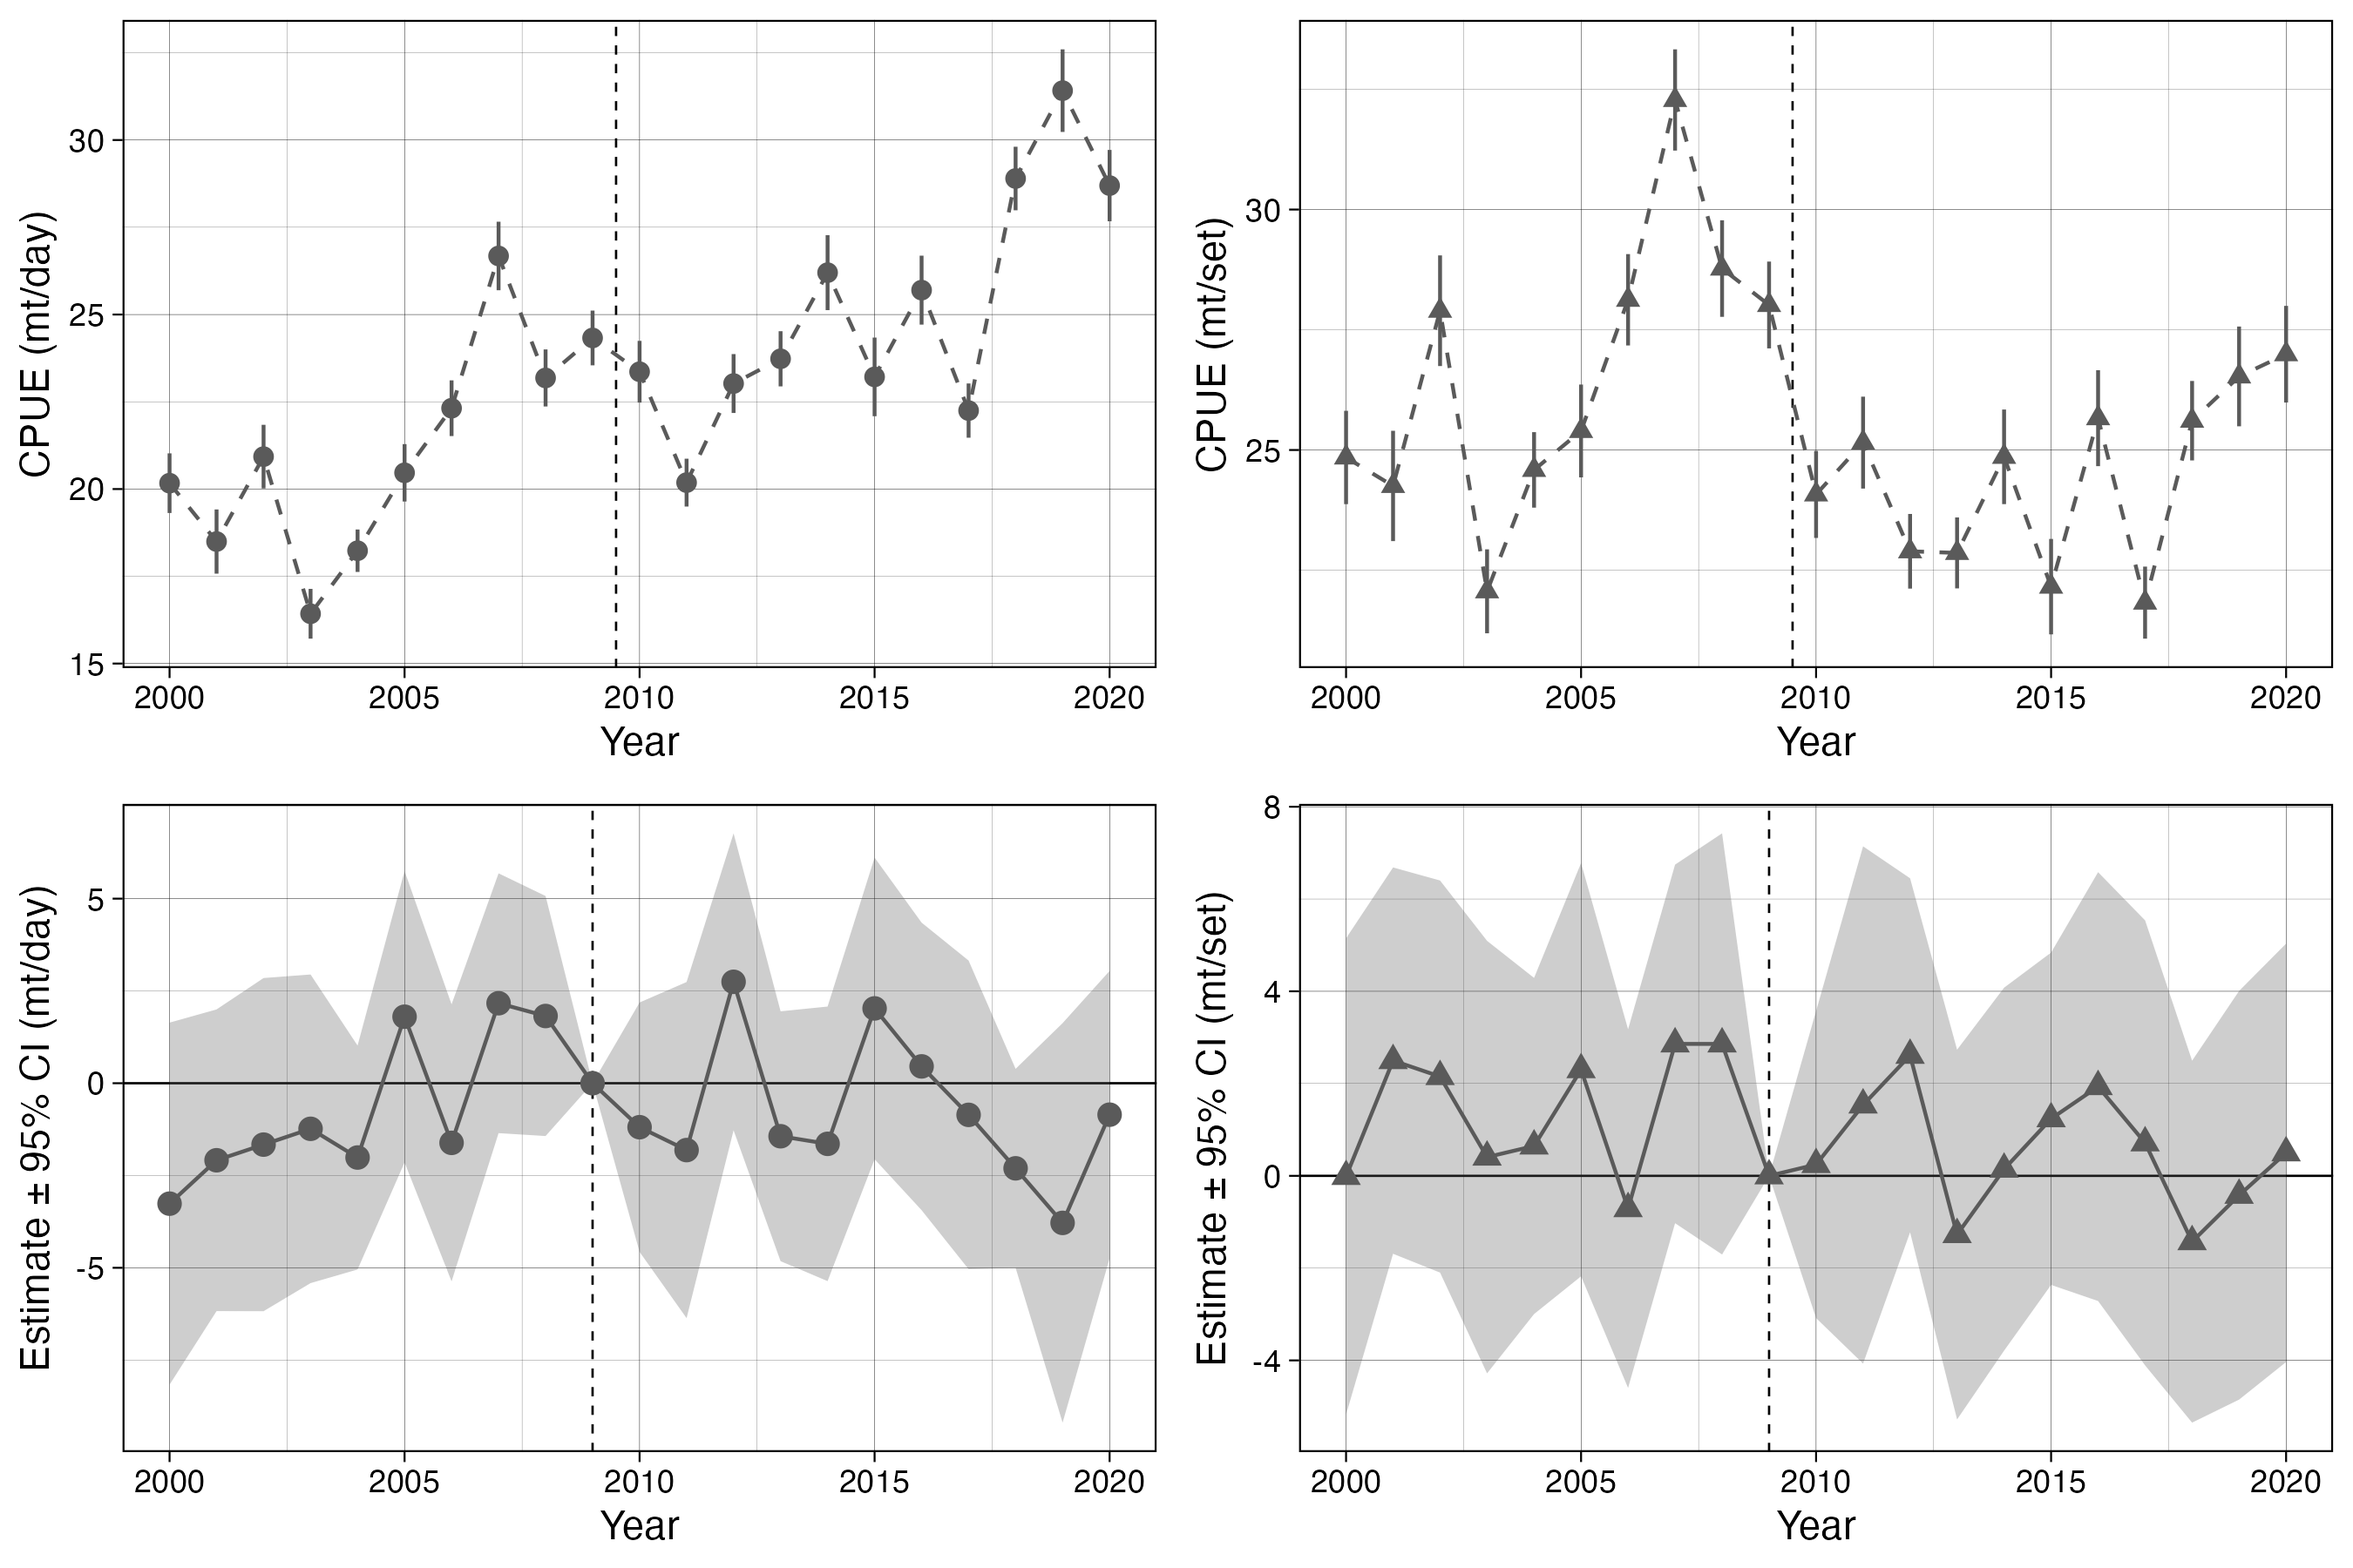
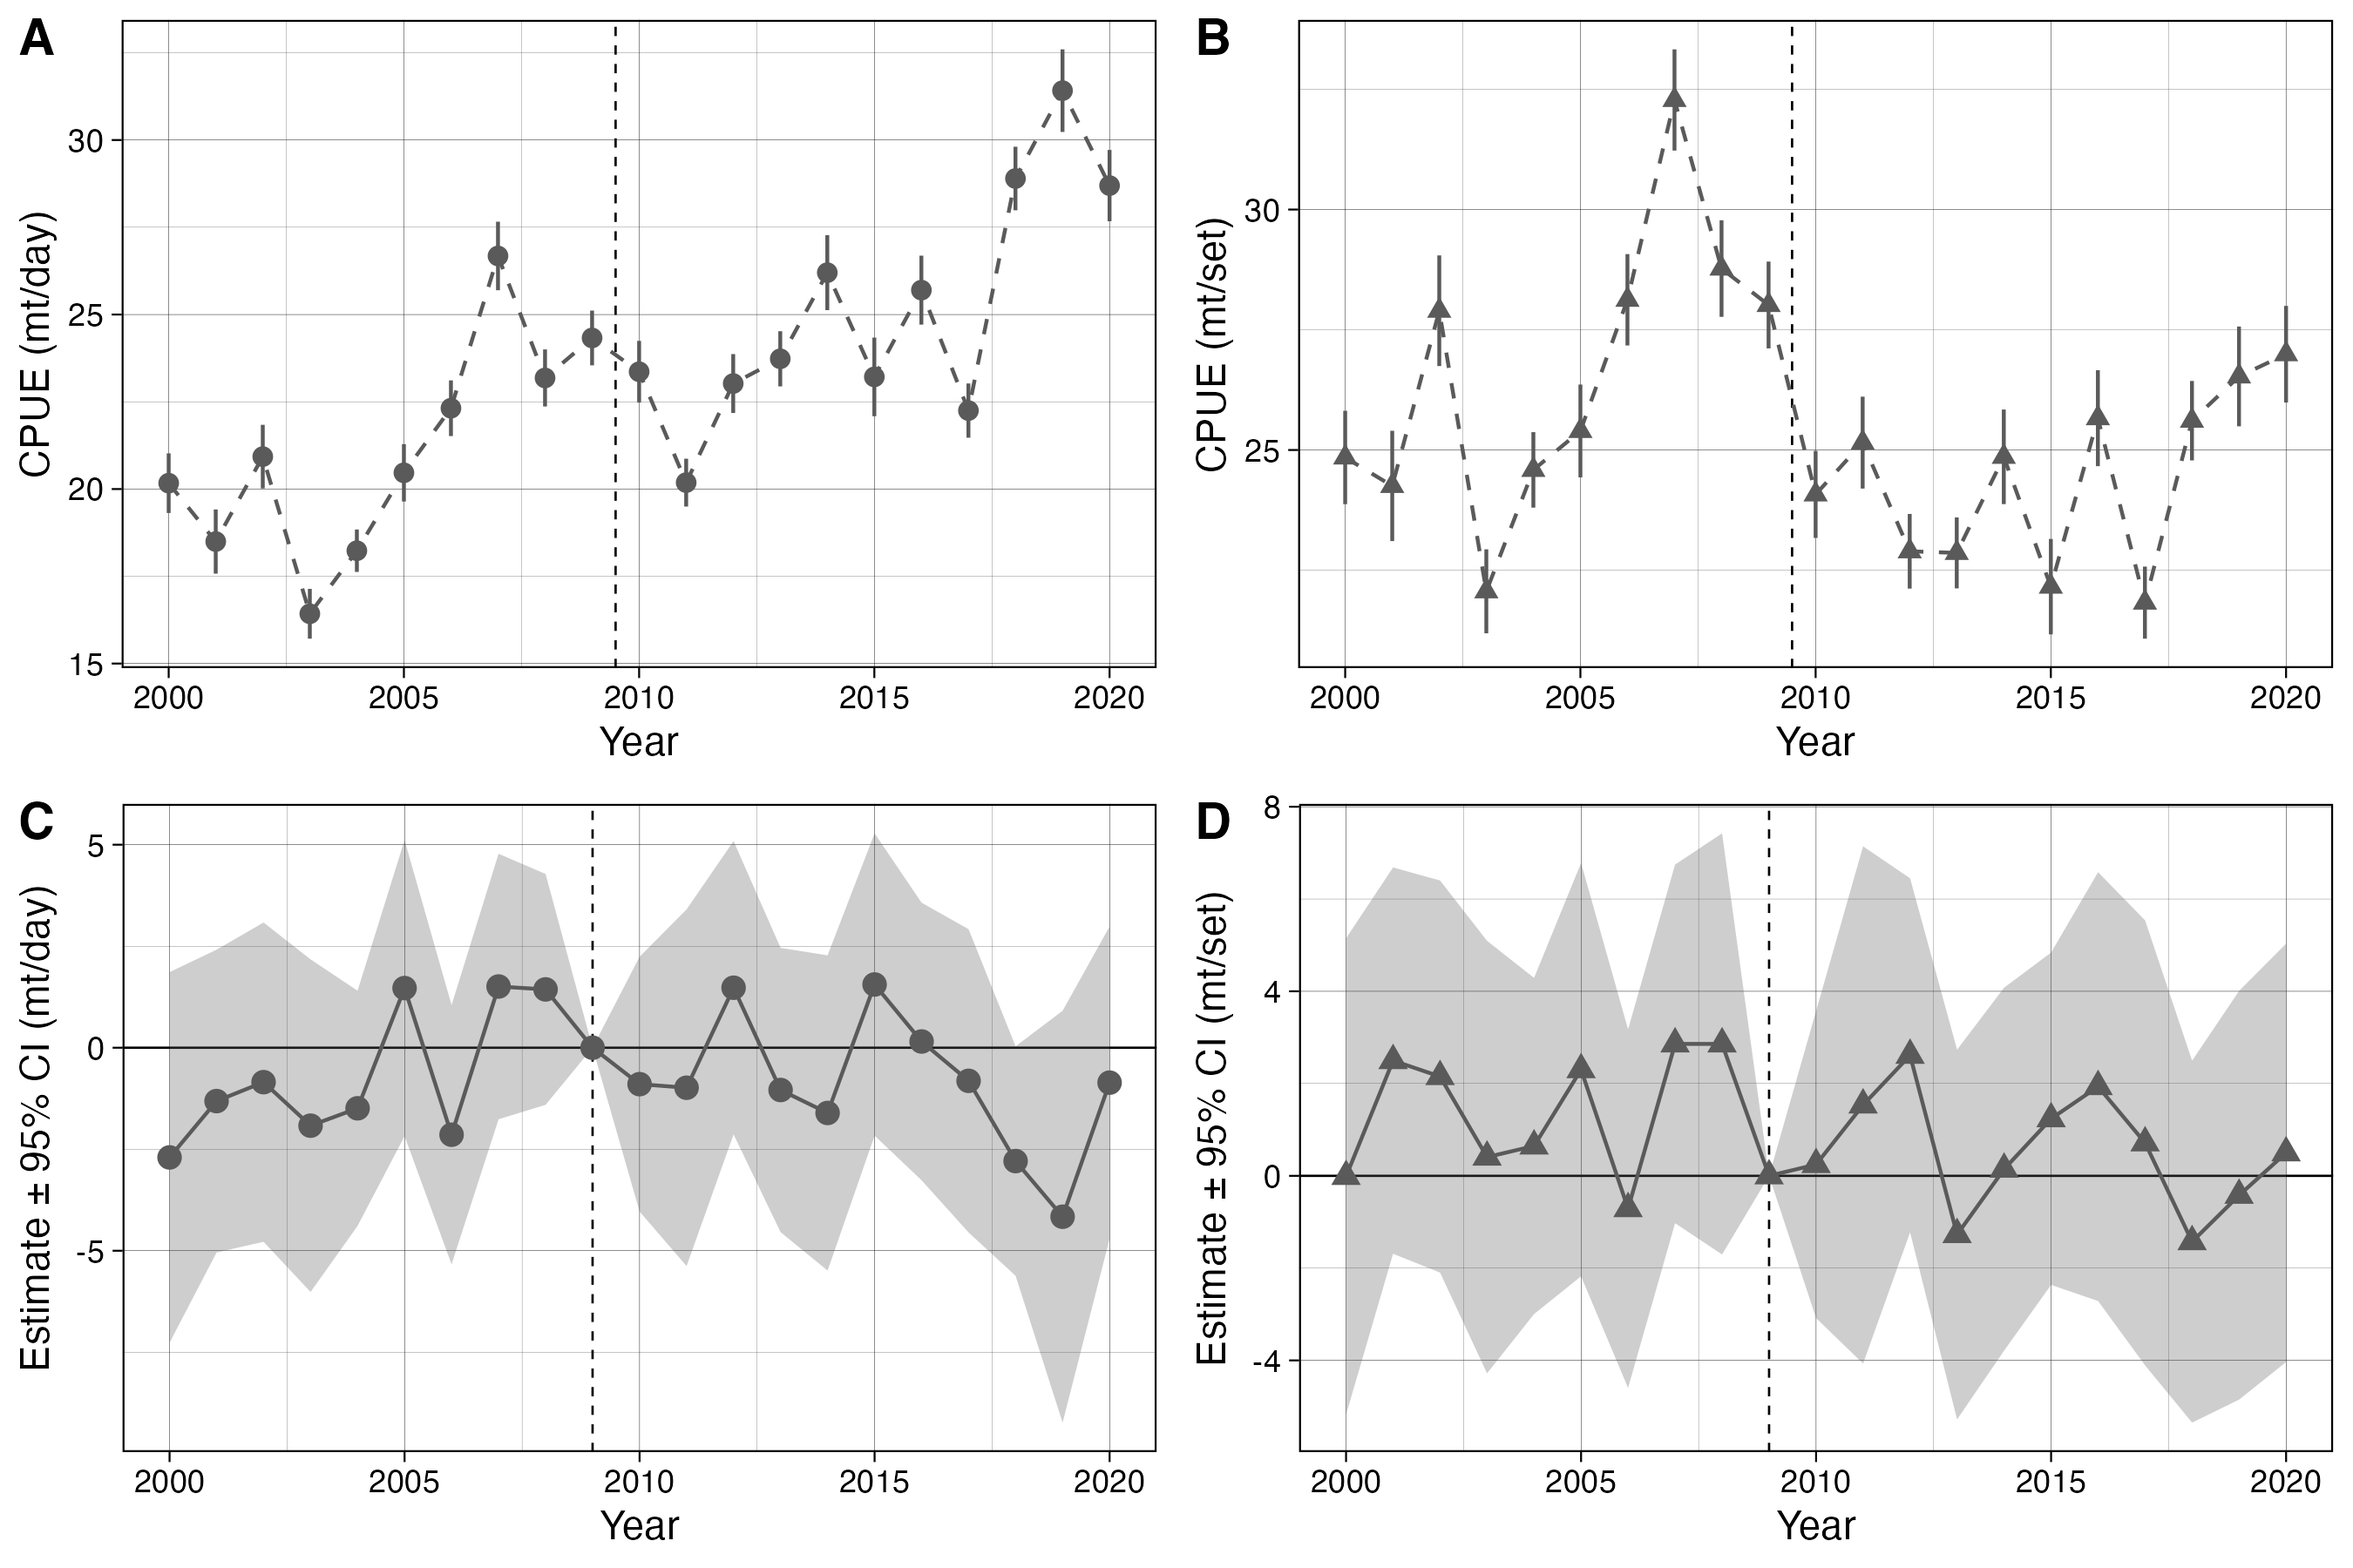
Using config script in H3 script

diff --git a/content/tab/h3_reg.tex b/content/tab/h3_reg.tex
@@ -8,17 +8,18 @@
 \toprule
   & CPUE (mt/day) & CPUE (mt/set)\\
 \midrule
-Post x Near & \num{-0.605} & \num{-0.854}\\
- & (\num{0.670}) & (\num{0.796})\\
+Post x Near & \num{-0.494} & \num{-0.854}\\
+ & (\num{0.661}) & (\num{0.796})\\
 $\bar{Y}_{pre}$ & \num{22.296} & \num{27.966}\\
 \midrule
 Num.Obs. & \num{25267} & \num{25267}\\
-R2 & \num{0.170} & \num{0.125}\\
-R2 Adj. & \num{0.155} & \num{0.109}\\
+R2 & \num{0.163} & \num{0.125}\\
+R2 Adj. & \num{0.148} & \num{0.109}\\
 \bottomrule
 \multicolumn{3}{l}{\rule{0pt}{1em}* p $<$ 0.1, ** p $<$ 0.05, *** p $<$ 0.01}\\
 \multicolumn{3}{l}{\rule{0pt}{1em}The unit of observation is a grid cell by year.}\\
 \multicolumn{3}{l}{\rule{0pt}{1em}All model specifications include fixed effects by year and grid cell.}\\
-\multicolumn{3}{l}{\rule{0pt}{1em}Numbers in parentheses are Conley standard errors with a220kmradius.}\\
+\multicolumn{3}{l}{\rule{0pt}{1em}Numbers in parentheses are Conley standard errors with a 220km radius.}\\
+\multicolumn{3}{l}{\rule{0pt}{1em}$\bar{Y}_{pre}$ indicates the mean of each outcome variable in the pre-closure period.}\\
 \end{tabular}
 \end{table}
